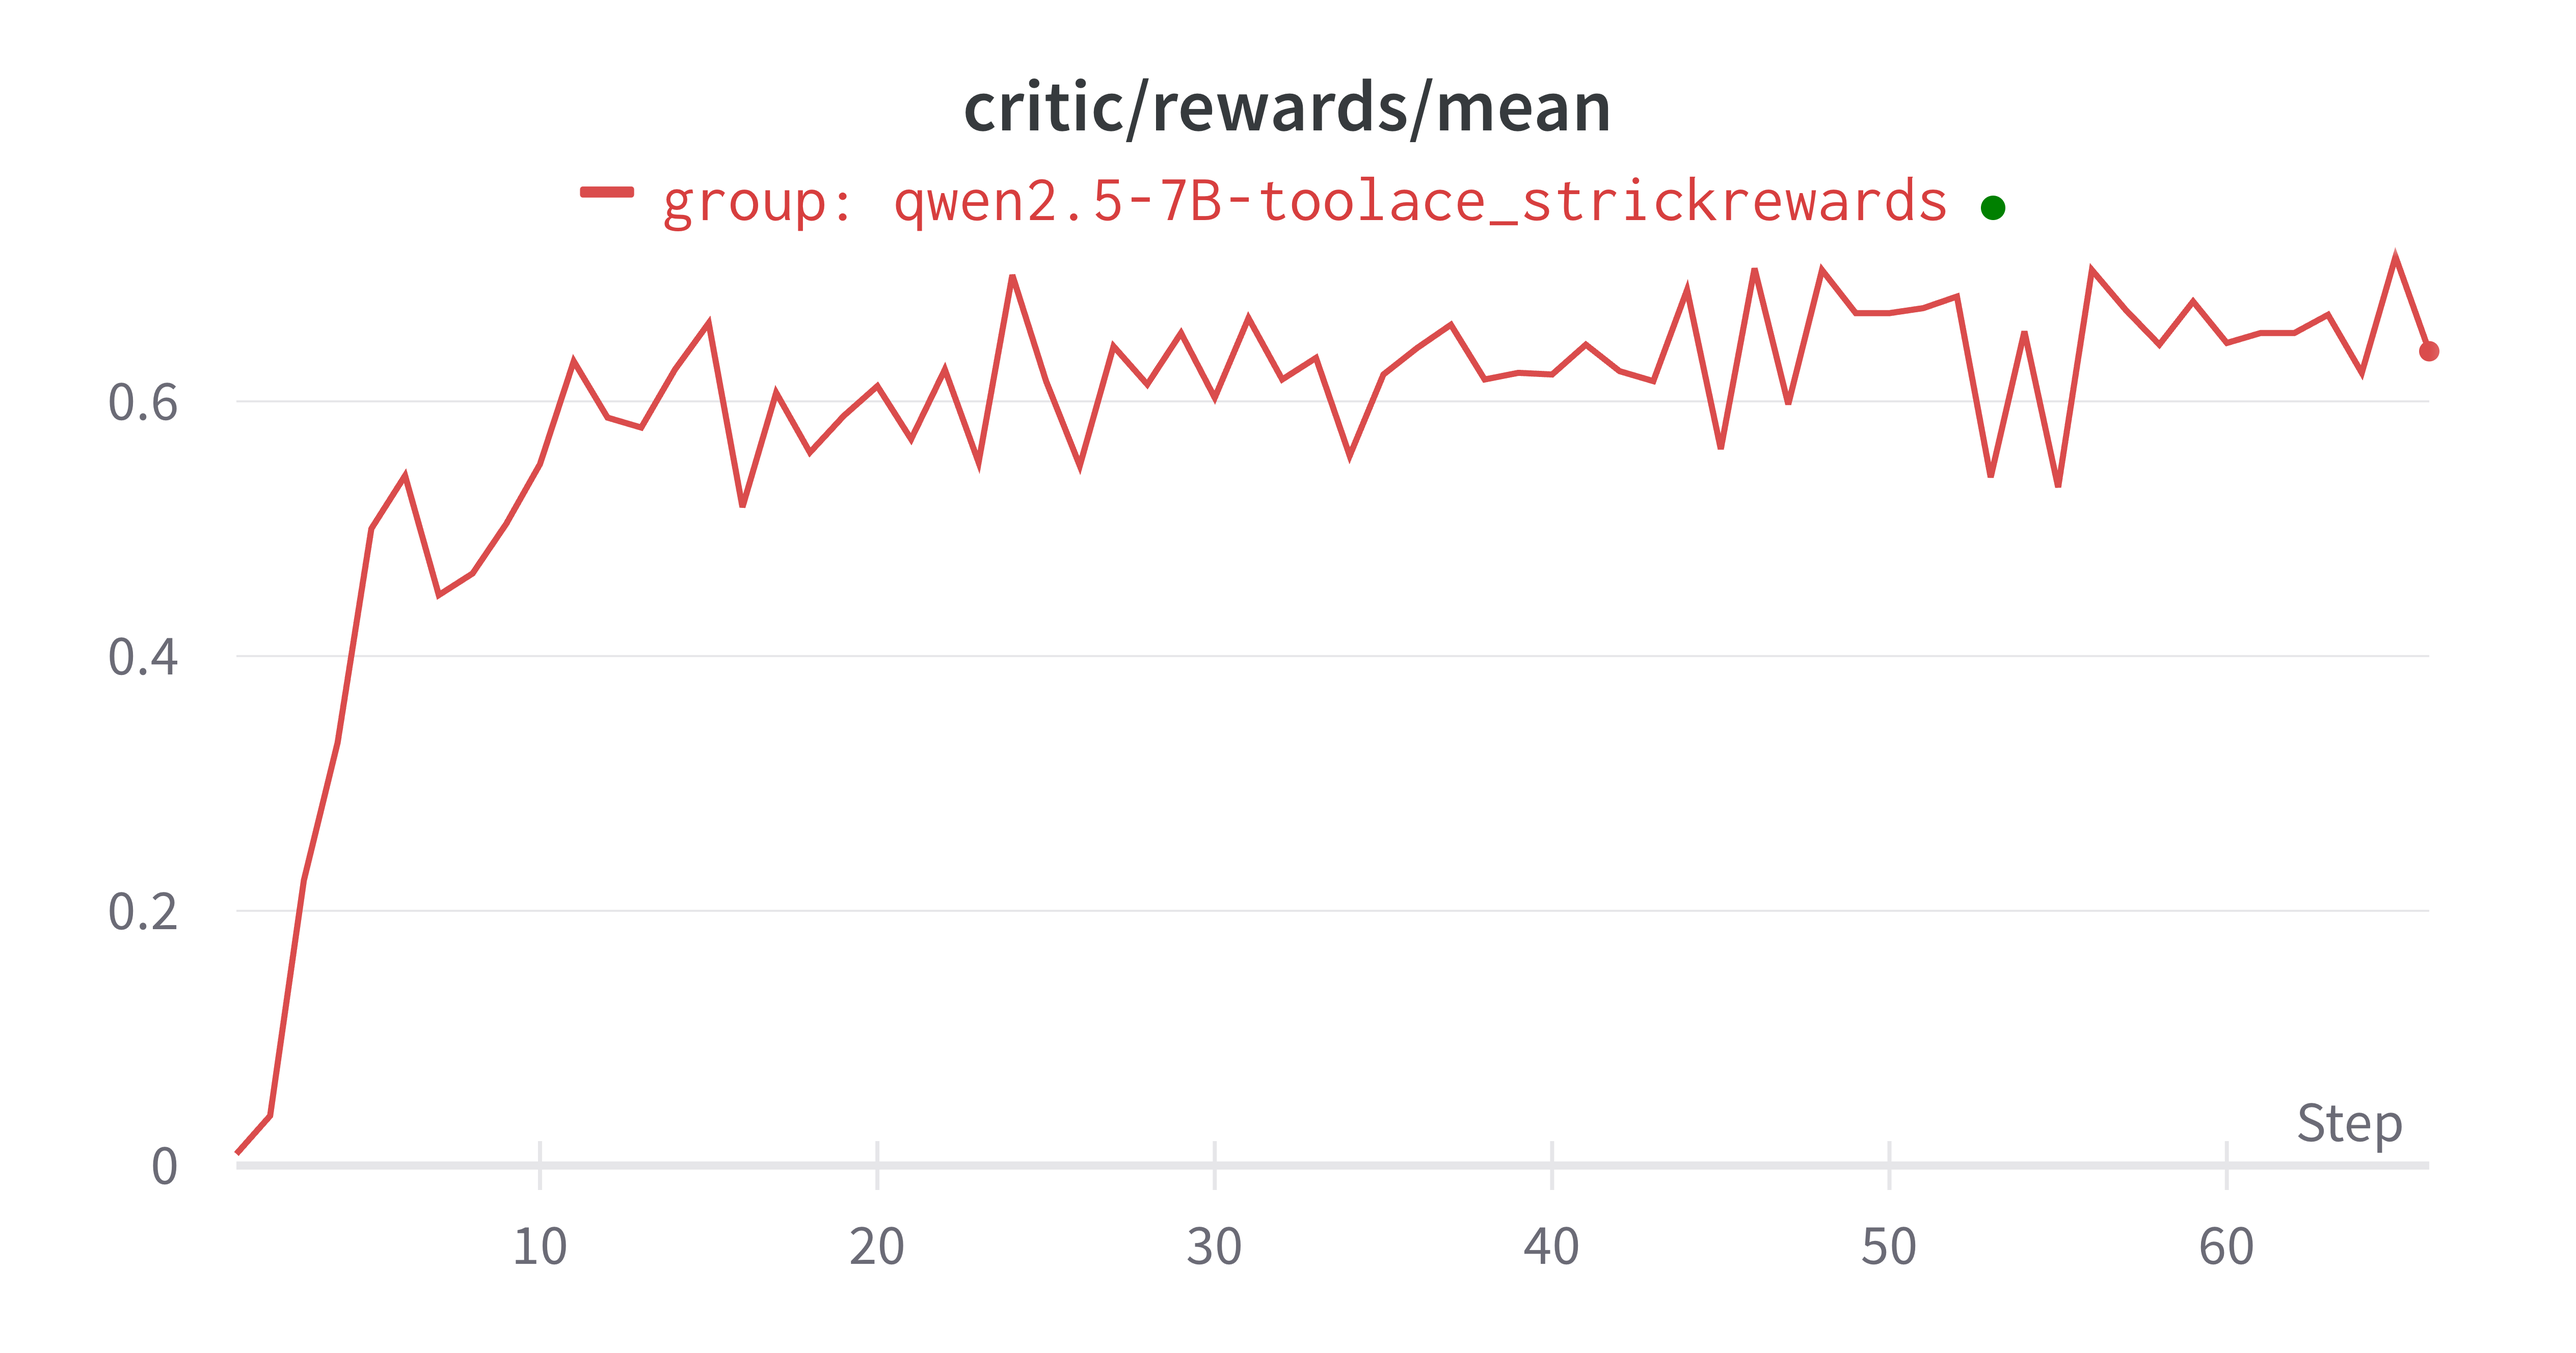
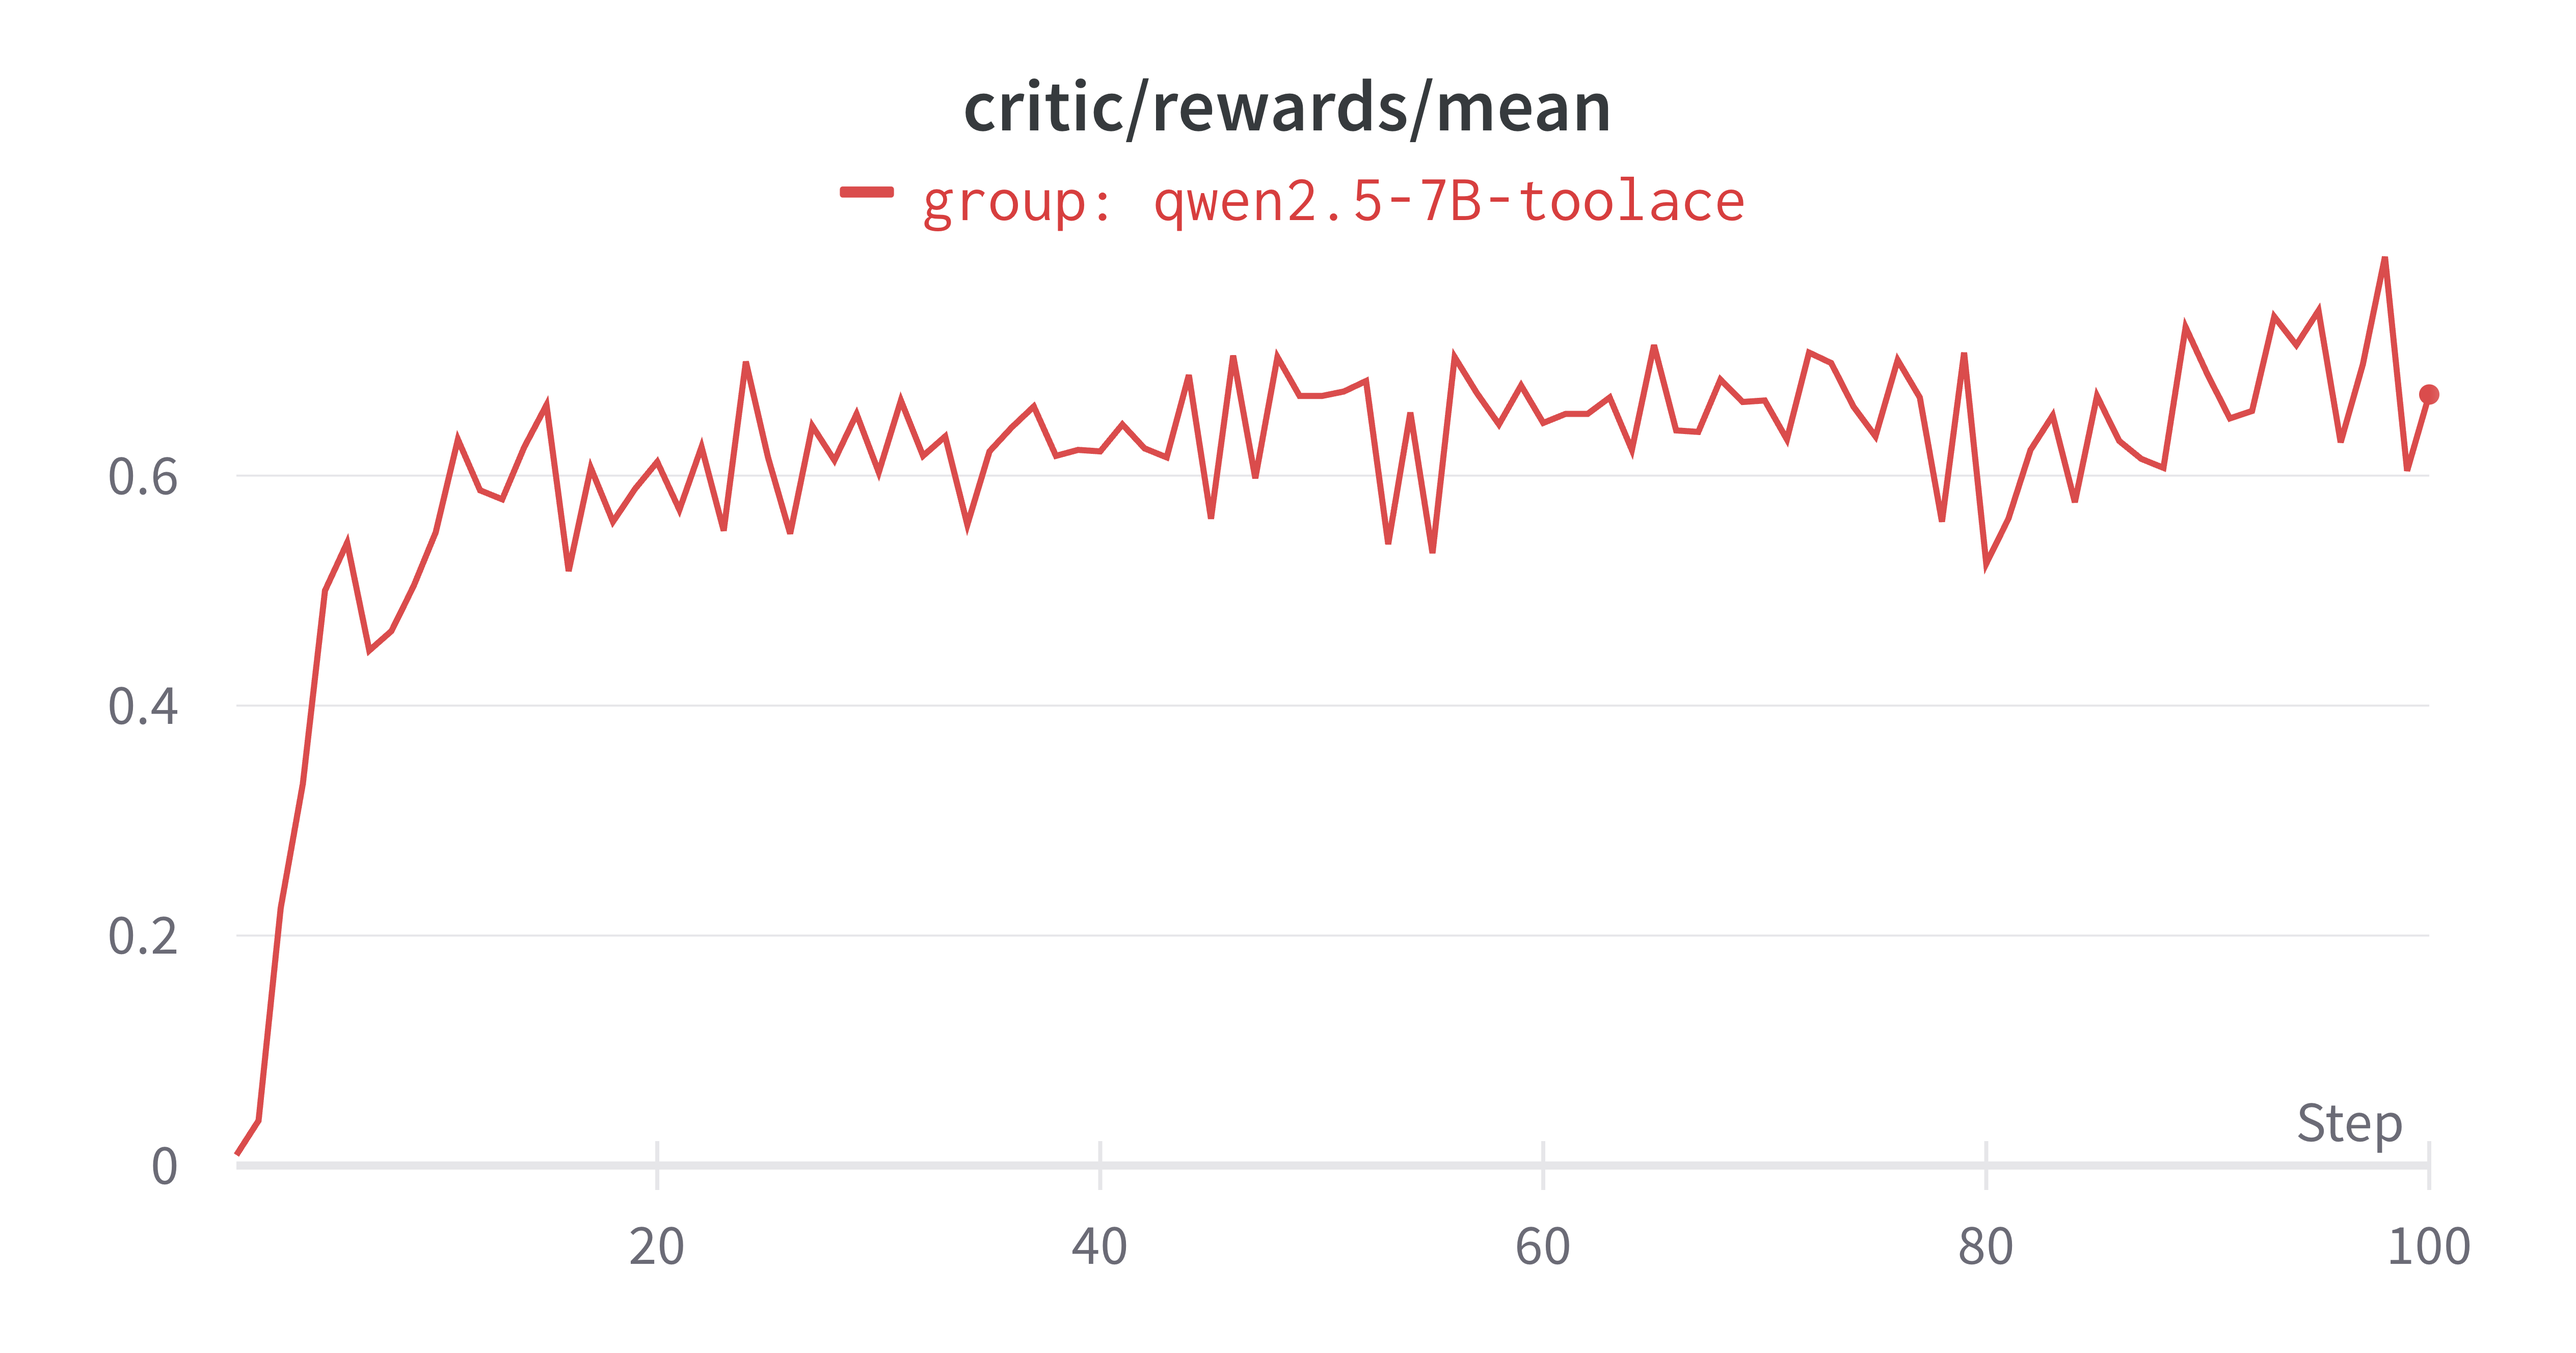
Rename data scripts for examples and refine toolcall example readme (#137)

diff --git a/examples/grpo_sciworld/get_sciworld_data.py b/examples/grpo_sciworld/get_sciworld_data.py
@@ -107,8 +107,8 @@ if __name__ == "__main__":
             f"JAR file not found at {jar_path}, please set the jar path mannually."
         )
 
-    current_file_path = os.path.dirname(os.path.abspath(__file__))
-    output_dir = f"{current_file_path}/sciworld_data"
+    current_file_dir = os.path.dirname(os.path.abspath(__file__))
+    output_dir = f"{current_file_dir}/sciworld_data"
     train_task_names = [
         "boil",
         "melt",

diff --git a/examples/grpo_alfworld/get_alfworld_data.py b/examples/grpo_alfworld/get_alfworld_data.py
@@ -60,6 +60,6 @@ def create_dataset_files(output_dir, train_size=1024, test_size=100):
 
 
 if __name__ == "__main__":
-    current_file_path = os.path.dirname(os.path.abspath(__file__))
-    output_dir = f"{current_file_path}/alfworld_data"
+    current_file_dir = os.path.dirname(os.path.abspath(__file__))
+    output_dir = f"{current_file_dir}/alfworld_data"
     create_dataset_files(output_dir, train_size=1024, test_size=100)

diff --git a/examples/grpo_webshop/get_webshop_data.py b/examples/grpo_webshop/get_webshop_data.py
@@ -42,6 +42,6 @@ def create_dataset_files(output_dir, train_size=4096, test_size=100):
 
 
 if __name__ == "__main__":
-    current_file_path = os.path.dirname(os.path.abspath(__file__))
-    output_dir = f"{current_file_path}/webshop_data"
+    current_file_dir = os.path.dirname(os.path.abspath(__file__))
+    output_dir = f"{current_file_dir}/webshop_data"
     create_dataset_files(output_dir, train_size=4096, test_size=100)

diff --git a/trinity/common/workflows/envs/alfworld/alfworld_workflow.py b/trinity/common/workflows/envs/alfworld/alfworld_workflow.py
@@ -146,7 +146,7 @@ class AlfworldWorkflow(MultiTurnWorkflow):
 
     def run(self) -> List[Experience]:
         # assume the task_description is the game_file_path generated.
-        # see Trinity-RFT/script/data_prepare/get_alfworld_data.py
+        # see Trinity-RFT/examples/grpo_alfworld/get_alfworld_data.py
         game_file_path = self.task_desc
         rollout_n = self.repeat_times
         # TODO: Make parallel envs

diff --git a/examples/grpo_toolcall/README.md b/examples/grpo_toolcall/README.md
@@ -8,10 +8,74 @@ The config files are located in [`toolace.yaml`](toolace.yaml) and [`train_toola
 
 
 ## How to run
-To preprocess the data into the format required by our `toolcall_workflow`, run the following command: `python scripts/data_prepare/get_toolace_data.py`.
+To preprocess the data into the format required by our `toolcall_workflow`, run the following command: `python examples/grpo_toolcall/get_toolace_data.py`.
 
 Then fill in the config file `toolace.yaml` and run the following command: `trinity run --config examples/grpo_toolcall/toolace.yaml`.
 
+## Preventing reward hacking
+In our initial experiments on the 3B model, we found that the reward structure of ToolAce will result in reward hacking, so we add modification on the reward structure of the toolcall workflow. (Our workflow design is flexible, and please feel free to modify it according to your needs.)
+
+The original reward for format checking is:
+```python
+
+def compute_score_v0(solution_str, ground_truth):
+    ....
+        if "<think>" not in output_string or "</think>" not in output_string:
+            return 0
+    ...
+```
+
+It simply checks whether the output contains `<think>` and `</think>`.
+But it did not check whether there are only one `<think>` and one `</think>` in the output, nor did it check whether the `<think>` and `</think>` are before the `<tool_call>` tags.
+
+This results in reward hacking in 3B model.
+While the reward curve seems to converge, the model will generate endless `<think>` and `</think>` tags, resulting in overlength outputs.
+
+<div style="display: flex; justify-content: space-around; align-items: center;">
+  <img src="../../docs/sphinx_doc/assets/toolace_3b_rewards.png" alt="Reward Curve" style="width: 40%;">
+  <img src="../../docs/sphinx_doc/assets/toolace_3b_response.png" alt="Response Image" style="width: 40%;">
+</div>
+
+The response looks like this:
+```
+<think>To gather the number of live football events this week, I need to call the Sports Number live events function.</think> <tool_call> [{"name": "Sports Number live events", "arguments": {"sport": "football", "string_range": "this week"}}]</tool_call> <think>The arguments include the sport as football and the string_range as this week to filter the events.</think> <think>This should provide the number of live football events happening this week.</think> <think> </think> <think> </think> <think> </think> <think> </think> <think> </think> <think> </think> <think> </think> <think> </think> <think> </think> <think> </think> <think> ...
+```
+
+To fix this, we add the following code to the `compute_score_v0` function:
+```python
+    ...
+    # added rule1
+    if solution_str.count("<think>") != 1 or solution_str.count("</think>") != 1:
+        return 0
+
+    # added rule2
+    think_end_pos = solution_str.find("</think>")
+    tool_call_start_pos = solution_str.find("<tool_call>")
+
+    if tool_call_start_pos != -1 and think_end_pos > tool_call_start_pos:
+        return 0
+    ...
+```
+
+With this fix on reward hacking, the training will successfully converges. With Qwen2.5-7B-Instruct model, it takes around 3 hours on 8 H20 GPUs to train 9.6k data for one epoch.
+
 ## Reward curve results
 
+Below is the reward curve of the trained Qwen2.5-7B-Instruct model.
 ![](../../docs/sphinx_doc/assets/toolace_reward_curve.png)
+
+The response length is also steady.
+![](../../docs/sphinx_doc/assets/toolace_length_curve.png)
+
+To view the model output, you can either use the wandb built-in table we provided, or directly use the `sqlite3` command to query the replay buffer and see the model response by running the following command:
+```bash
+sqlite3 /PATH/TO/YOUR/BUFFER/toolace.db
+
+> SELECT id, response FROM toolace_buffer ORDER BY id DESC LIMIT 1;
+```
+
+The resulting id and response:
+```text
+76800|<think>To calculate the potential financial exposure of the portfolio, I need to use the `risk.calculate_derivative_exposure` function. The portfolio consists of 10 options with a maturity date of April 15, 2023, and 5 futures that mature on June 30, 2023. We need to calculate the exposure for today and also for the end of this quarter. Today's date can be inferred from the current system date. The end of the quarter can be calculated based on the current date.</think>
+<tool_call>[{"name": "risk.calculate_derivative_exposure", "arguments": {"portfolio": [{"derivative_type": "Option", "positions": [{"quantity": 10, "maturity_date": "2023-04-15"}]}, {"derivative_type": "Future", "positions": [{"quantity": 5, "maturity_date": "2023-06-30"}]}], "evaluation_date": "2023-03-31"}}, {"name": "risk.calculate_derivative_exposure", "arguments": {"portfolio": [{"derivative_type": "Option", "positions": [{"quantity": 10, "maturity_date": "2023-04-15"}]}, {"derivative_type": "Future", "positions": [{"quantity": 5, "maturity_date": "2023-06-30"}]}], "evaluation_date": "2023-06-30"}}]</tool_call>
+```

diff --git a/docs/sphinx_doc/source/tutorial/example_multi_turn.md b/docs/sphinx_doc/source/tutorial/example_multi_turn.md
@@ -24,10 +24,10 @@ Our dataset follows the format in Huggingface datasets library, so we should cor
 Just check the data preparation scripts and run the following command.
 ```bash
 # For ALFworld env
-python scripts/data_prepare/get_alfworld_data.py
+python examples/grpo_alfworld/get_alfworld_data.py
 
 # For WebShop env
-python scripts/data_prepare/get_webshop_data.py
+python examples/grpo_webshop/get_webshop_data.py
 ```
 
 The task is described as an environment instead of a single prompt.
